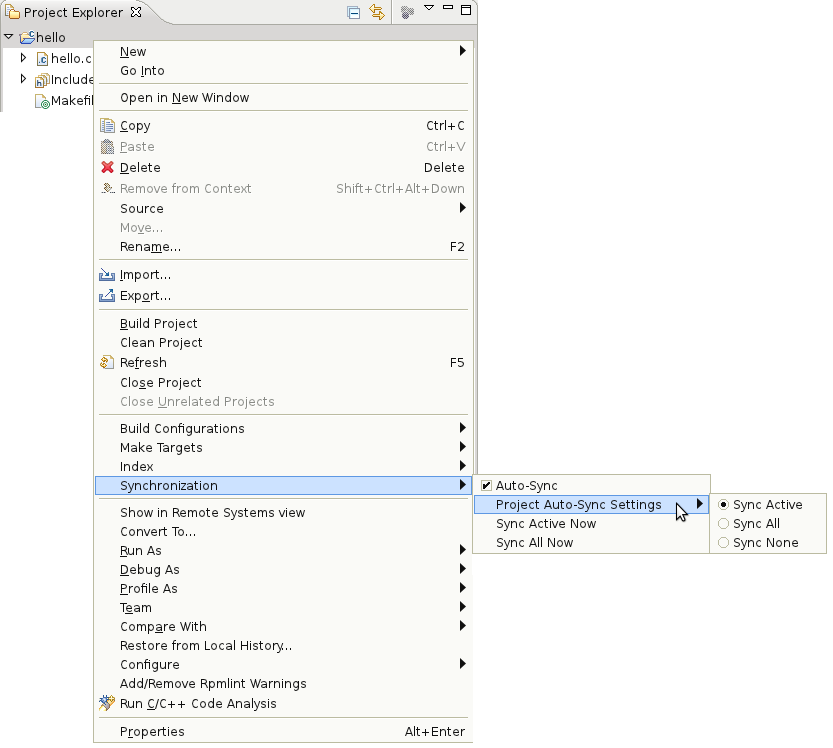
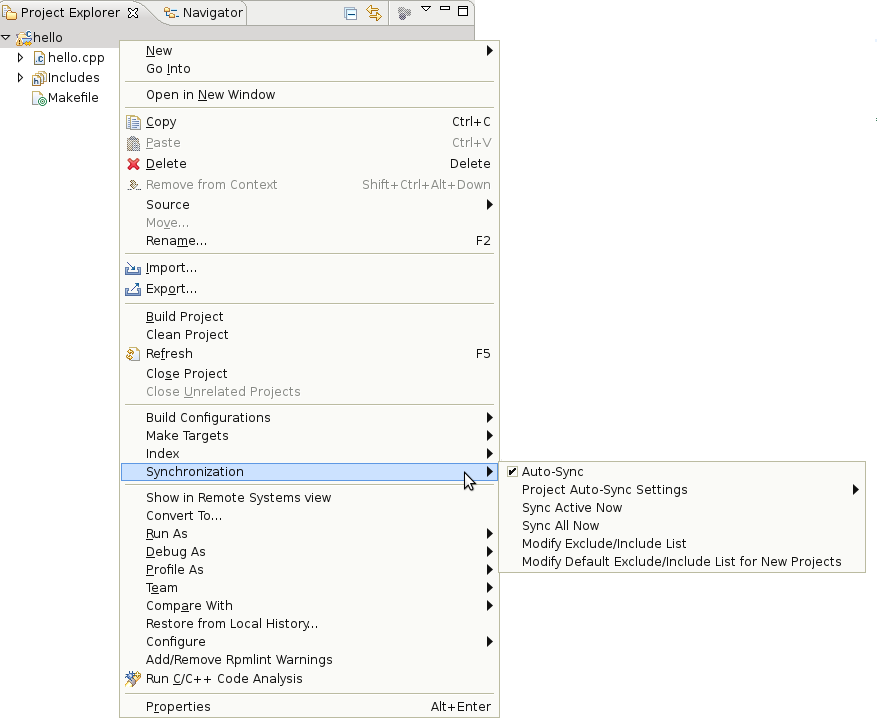
Add documentation on File Exclude/Include List

diff --git a/core/org.eclipse.ptp.doc.user/html/sync.html b/core/org.eclipse.ptp.doc.user/html/sync.html
@@ -112,10 +112,25 @@ properties page. If "Workspace" is the active configuration, no synchronization 
 </p>
 
 <h2 id="context-menu">Changing sync behavior with the Sync Context Menu</h2>
+<p>The sync context menu lets you alter the sync behavior and can be accessed with a right click on a sync project.</p>
+
+<h3 id="context-menu-sync">Changing sync frequency and manually sync'ing</h3>
 <p>
 The sync context menu lets you alter the sync behavior and can be accessed with a right click on a sync project. From this menu, you can turn off automatic sync'ing (sync after saving files and other resource changes) so that syncs only occur on request. This setting is applied to all projects in the workspace. The "Project Auto-Sync Settings" submenu allows you to alter the behavior of automatic sync'ing per project. Finally, the last two selections allow you to force an immediate sync of the current project. A "sync all" syncs all configurations of a project. Note that this can be quite slow if your project has several configurations. When a build is requested, a sync of the active configuration, and only the active configuration, is forced regardless of any settings.
-</p>
+
 <p><img src="images/sync-contextMenu.png">
+
+<h3 id="context-menu-file-list">Excluding and Including Files from Synchronization</h3>
+<p>
+Also accessible from the context menu, the "Sync File Exclude/Include List" allows you to change what files are synchronized, either for the current project or for all new projects created in the workspace, depending on the option selected. (For files and folders, "Exclude Selection" and "Include Selection" shortcut options are also available.) By default, binary files and files and directories used by Eclipse are excluded. The "File View" always indicates the currently excluded and included directories and files, while the "Pattern View" always shows the current exclude and include patterns. Each view updates automatically if the other view is changed, so that they are always in agreement. By default, remote files are not shown. Showing remote files may lead to a slower response time while updating views. An error message is printed if the remote is disconnected.
+
+<p>
+You can deselect or select directories or files in the File View, which will add the corresponding exclude or include pattern to the pattern view. These are "path" patterns, meaning that directories or files in the specified path are excluded or included. In the pattern view, you can enter a regular expression pattern ("regex") that is compared to the project-relative path. The regular expression syntax is that of the Java programming language. Select either "exclude" or "include" to add the pattern. An error message is printed if the regular expression is not valid. You can select "special" patterns from the "Select pattern" drop-down, although currently the only special pattern is one for matching binary files.
+
+<p>
+Patterns are applied in the order given in the Pattern View, and new patterns are always placed at the top (highest priority). So a file will be excluded or included based on the first matching pattern, or included if no pattern matches. Use the "Up" and "Down" buttons to change a pattern's priority. If a new pattern is identical to an old pattern and has the same type, the old pattern is deleted. Note that it doesn't matter whether the old pattern was an exclude or include pattern, since the new pattern supersedes it.
+
+<p><img src="images/sync-fileExcludeIncludeList.png">
 
 <h2 id="conversion-wizard">Converting a project to a Synchronized Project</h2>
 <p>
